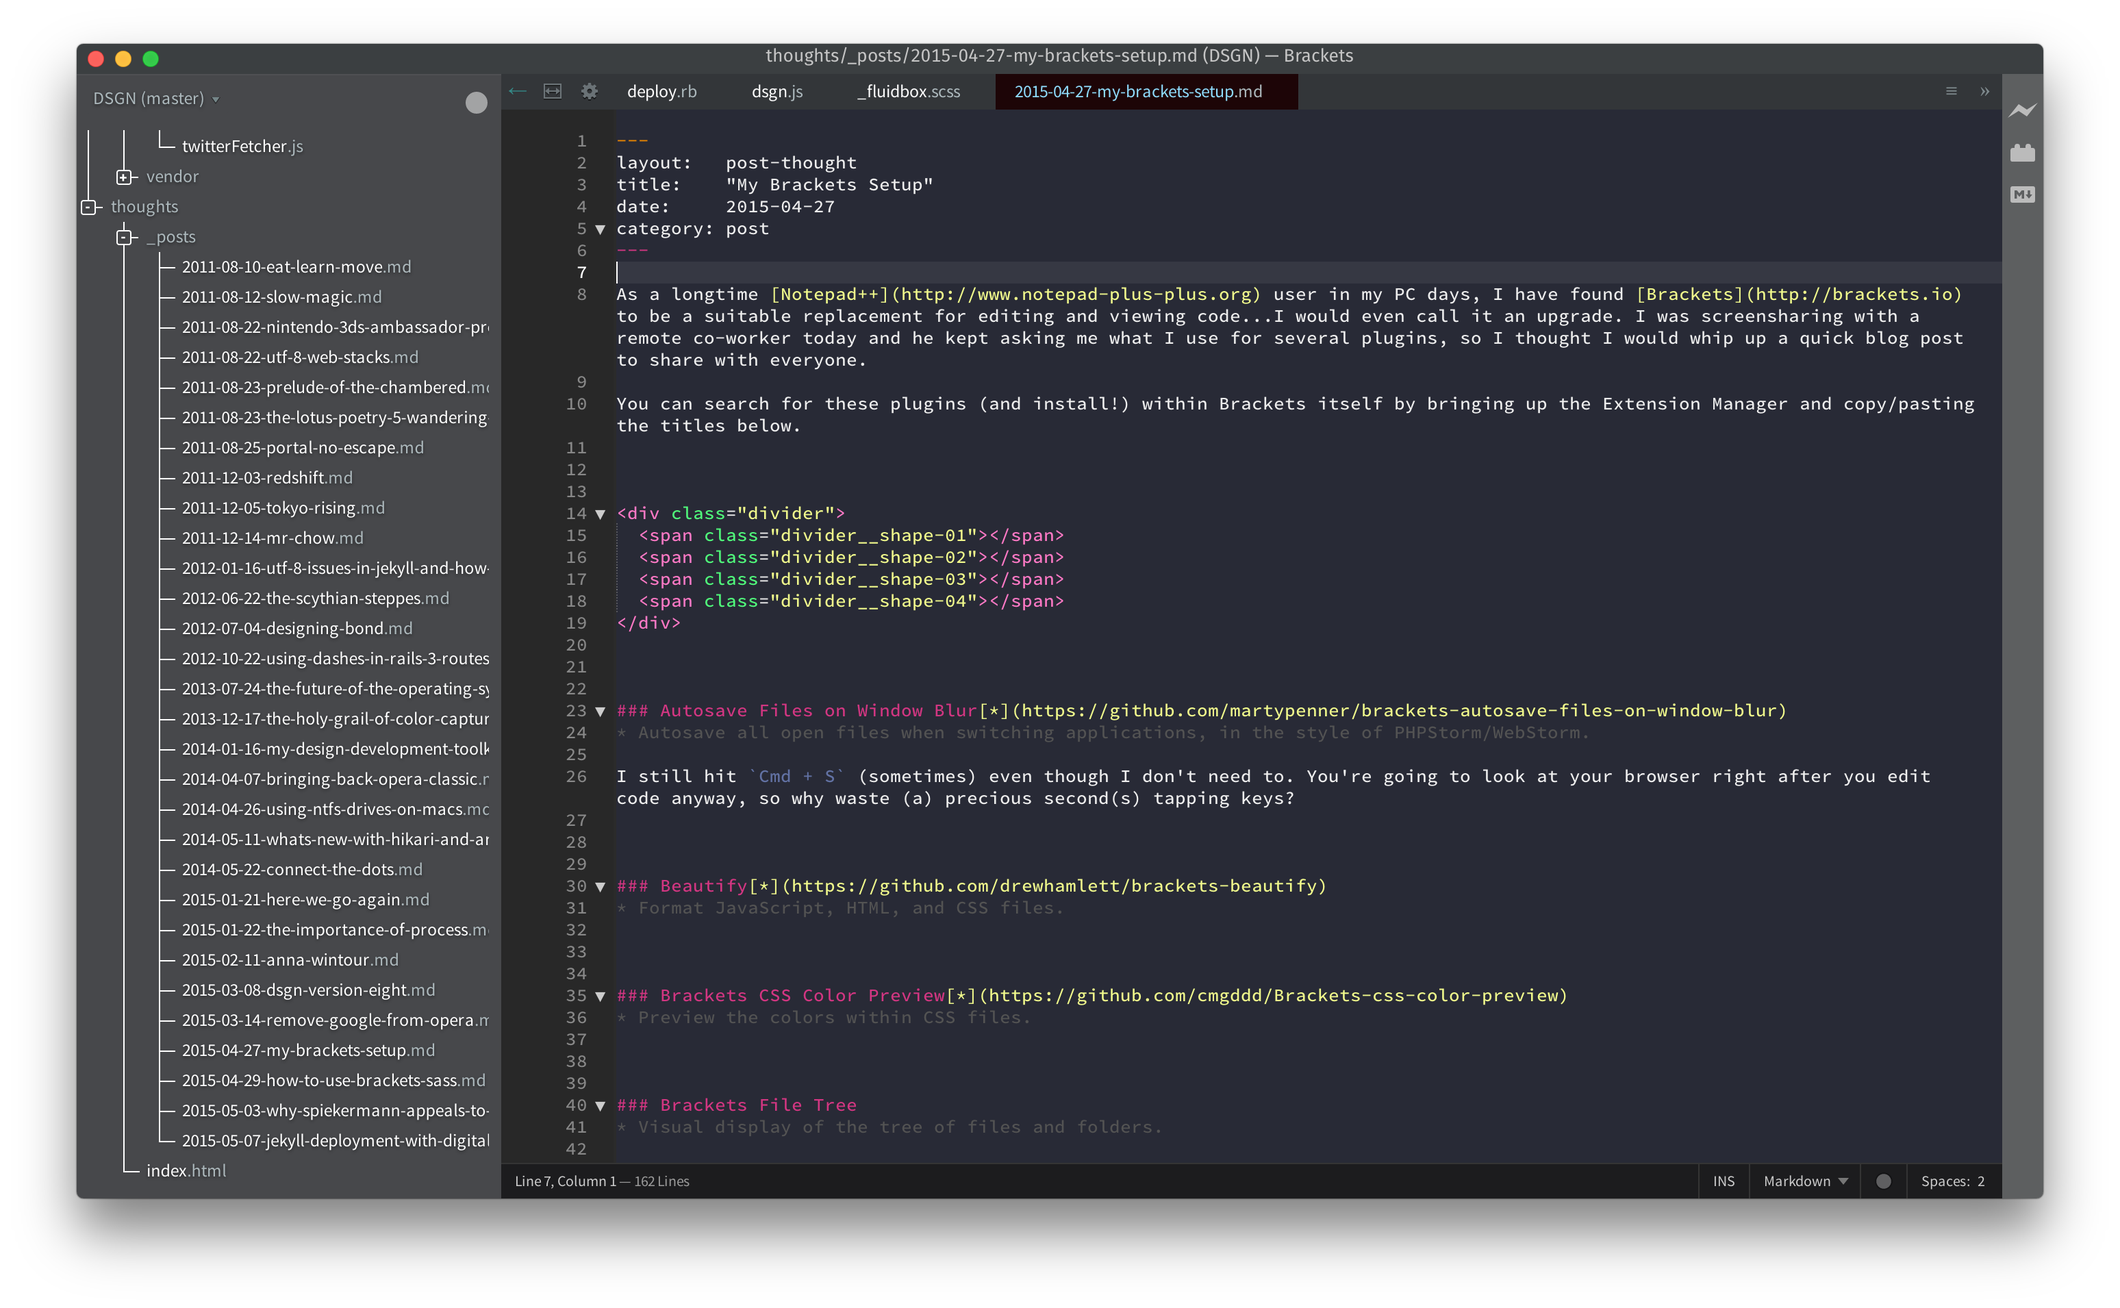
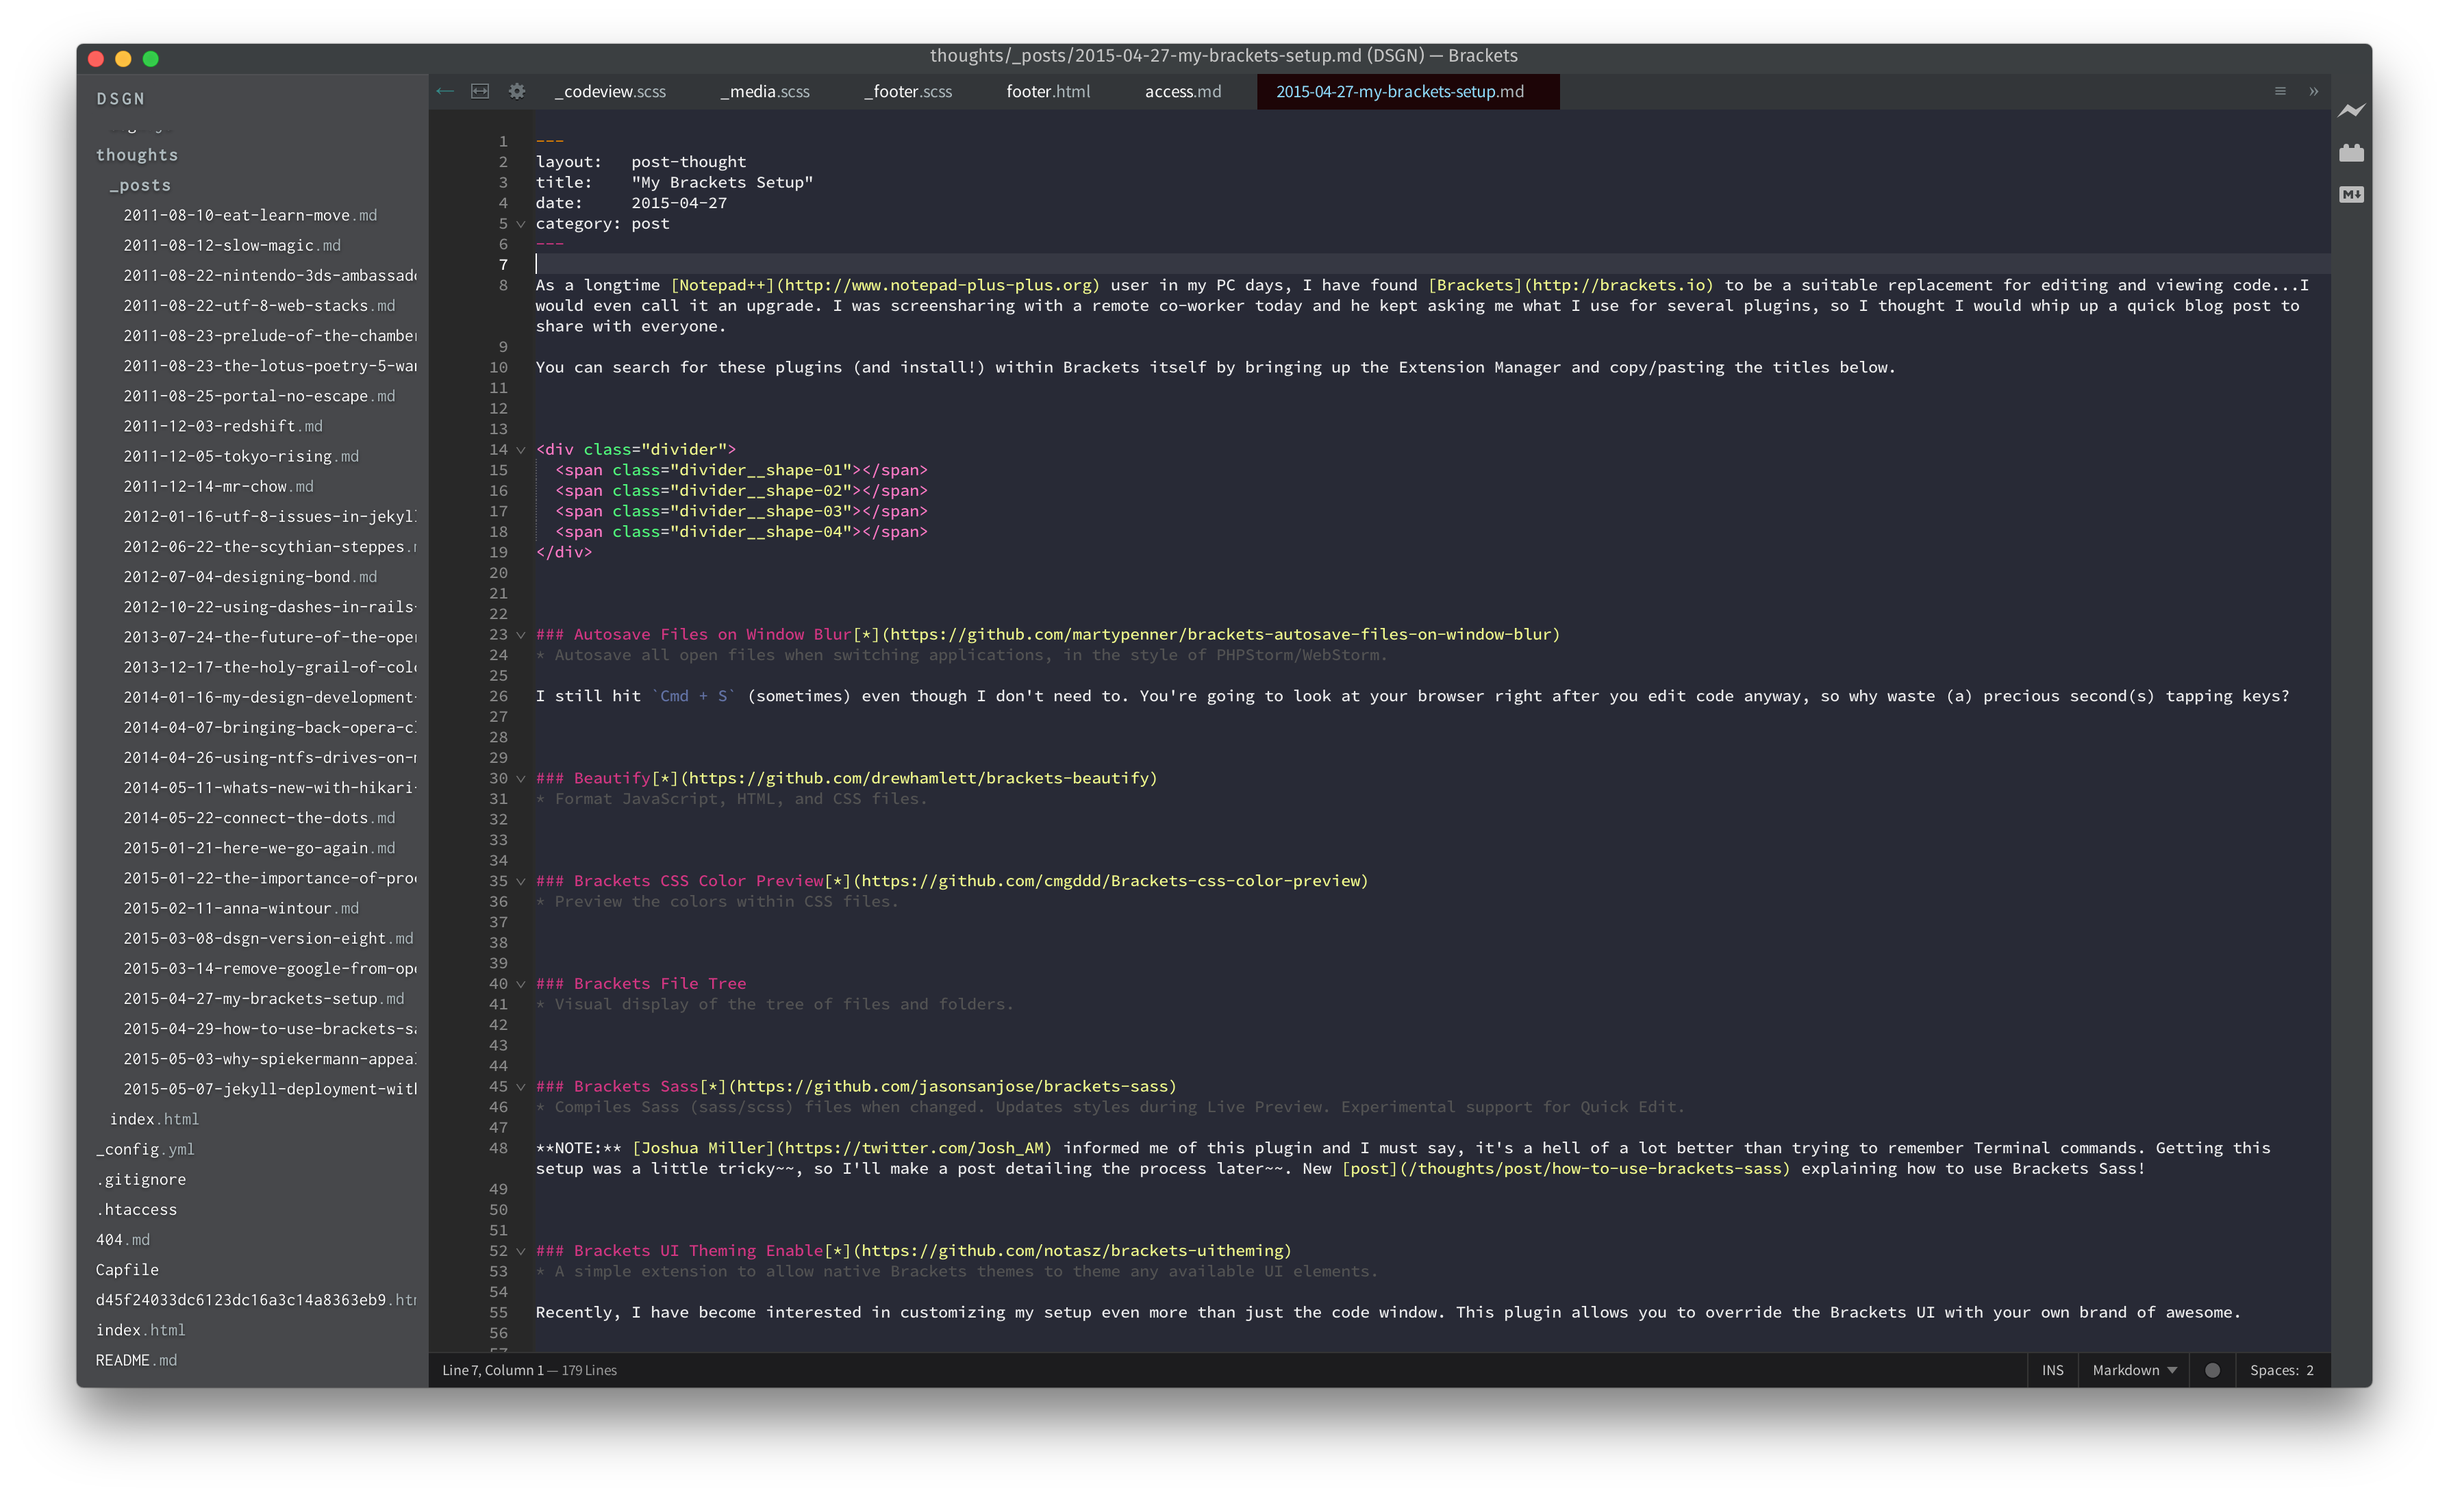
Updated 'Brackets Setup' post and added Preferences File content

diff --git a/thoughts/_posts/2015-04-27-my-brackets-setup.md b/thoughts/_posts/2015-04-27-my-brackets-setup.md
@@ -45,7 +45,14 @@ I still hit `Cmd + S` (sometimes) even though I don't need to. You're going to l
 ### Brackets Sass[*](https://github.com/jasonsanjose/brackets-sass)
 * Compiles Sass (sass/scss) files when changed. Updates styles during Live Preview. Experimental support for Quick Edit.
 
-**NOTE:** [Joshua Miller](https://twitter.com/Josh_AM) informed me of this plugin and I must say, it's a hell of a lot better than trying to remember Terminal commands. Getting this setup was a little tricky, so I'll make a post detailing the process later.
+**NOTE:** [Joshua Miller](https://twitter.com/Josh_AM) informed me of this plugin and I must say, it's a hell of a lot better than trying to remember Terminal commands. Getting this setup was a little tricky~~, so I'll make a post detailing the process later~~. New [post](/thoughts/post/how-to-use-brackets-sass) explaining how to use Brackets Sass!
+
+
+
+### Brackets UI Theming Enable[*](https://github.com/notasz/brackets-uitheming)
+* A simple extension to allow native Brackets themes to theme any available UI elements.
+
+Recently, I have become interested in customizing my setup even more than just the code window. This plugin allows you to override the Brackets UI with your own brand of awesome.
 
 
 
@@ -154,6 +161,34 @@ And there you have it! I will keep this post updated as I change my setup. Here'
   <figcaption>Aww yiss, kinda like Inception, right?</figcaption>
 </figure>
 
+P.S. I figured it might even be useful to see my Preferences File. My directories not showing up before my files irritated me to no end before realizing I could enable that functionality. I also do *not* like tags closing automatically, and that is something else you can configure. Anyhoo, here it is:
+
+<pre><code>
+  {
+    "me.drewh.jsbeautify.on_save": false,
+    "themes.theme": "dsgn.dracula-theme",
+    "sortDirectoriesFirst": true,
+    "scientech-com-ua.brackets-trailingspaces.checked": true,
+    "closeTags": {
+      "whenOpening": false,
+      "whenClosing": true,
+      "indentTags": []
+    },
+    "useTabChar": false,
+    "spaceUnits": 2,
+    "tabSize": 2,
+    "linting.collapsed": true,
+    "brackets-indent-guides.enabled": true,
+    "brackets-paste-and-indent.enabled": true,
+    "brackets-indent-guides.guideStyle": "dotted",
+    "styleActiveLine": true,
+    "brackets-css-color-preview.enabled": true,
+    "fonts.fontFamily": "\"SourceCodePro-Medium\", ＭＳ ゴシック, 'MS Gothic', monospace",
+    "fonts.fontSize": "12px",
+    "markdown-preview.useGFM": true
+  }
+</code></pre>
+
 
 
 <div class="divider">
@@ -168,4 +203,5 @@ And there you have it! I will keep this post updated as I change my setup. Here'
 <span>
   <small>Updated 04.28.15 to add Brackets Sass</small>
   <small>Updated 05.14.15 to add Markdown Preview</small>
+  <small>Updated 06.16.15 to add Brackets UI Theming Enable and Preferences File content</small>
 </span>

diff --git a/thoughts/_posts/2015-04-29-how-to-use-brackets-sass.md b/thoughts/_posts/2015-04-29-how-to-use-brackets-sass.md
@@ -5,7 +5,7 @@ date:     2015-04-29
 category: post
 ---
 
-In a post about <a href="/thoughts/post/my-brackets-setup" class="animsition-link" data-animsition-out="zoom-out-sm">my Brackets setup</a>, I mentioned being informed about a plugin called, "Brackets Sass". I usually use Terminal to compile my Sass but once you start organizing folders and files differently, you tend to get confused about how to use parameters. Actually, this issue is probably just mine alone...anyhoo, you probably know that Brackets is a text-editor that has an integrated plugin system. To install Brackets Sass, just search for it in the Extensions Manager.
+In a post about [my Brackets setup](/thoughts/post/my-brackets-setup), I mentioned being informed about a plugin called, "Brackets Sass". I usually use Terminal to compile my Sass but once you start organizing folders and files differently, you tend to get confused about how to use parameters. Actually, this issue is probably just mine alone...anyhoo, you probably know that Brackets is a text-editor that has an integrated plugin system. To install Brackets Sass, just search for it in the Extensions Manager.
 
 The `README` on the [GitHub page](https://github.com/jasonsanjose/brackets-sass) had links to two examples, one of which included a bunch of Sass boilerplate stuff I don't need, and the other was simpler. I went with that one. Before I continue, you must know that in order to use Brackets Sass properly, you have to include a `.brackets.json` file at the base of your project folder.
 
